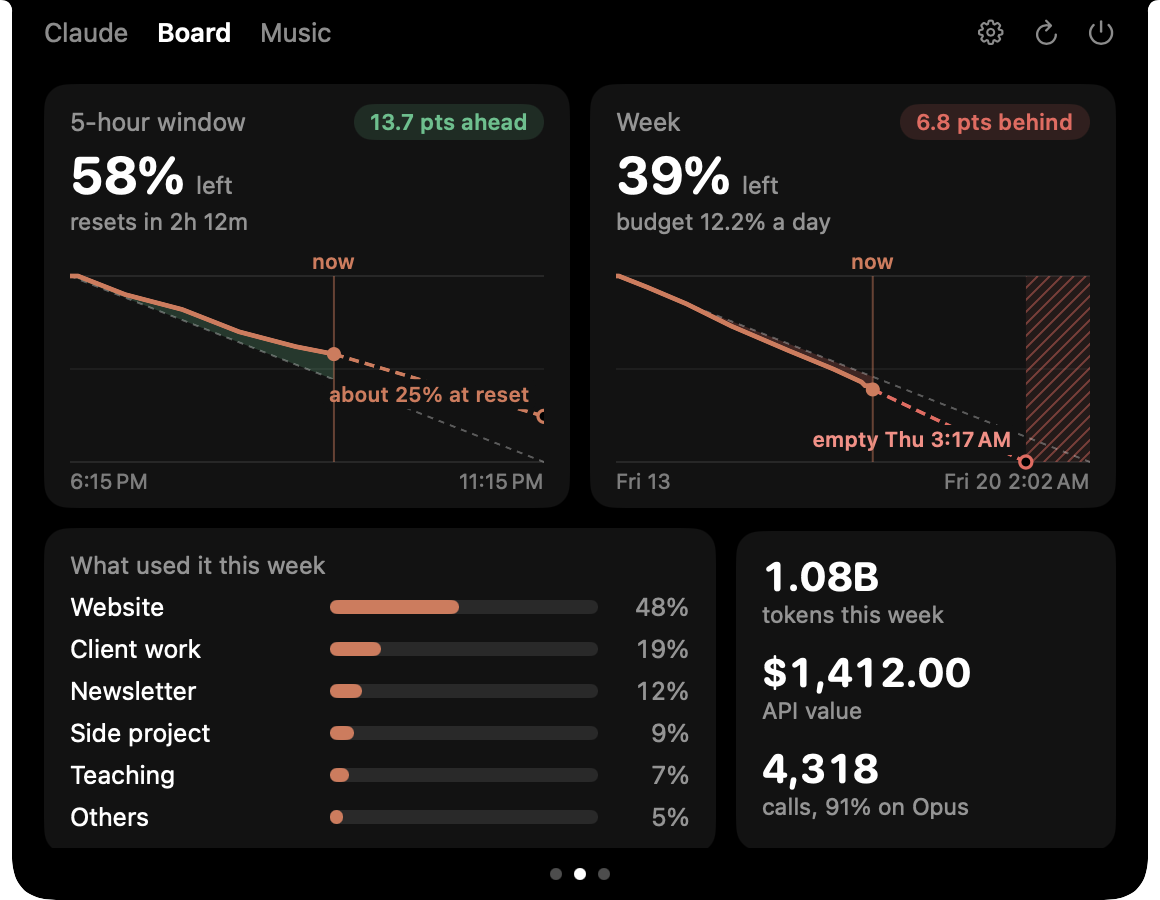
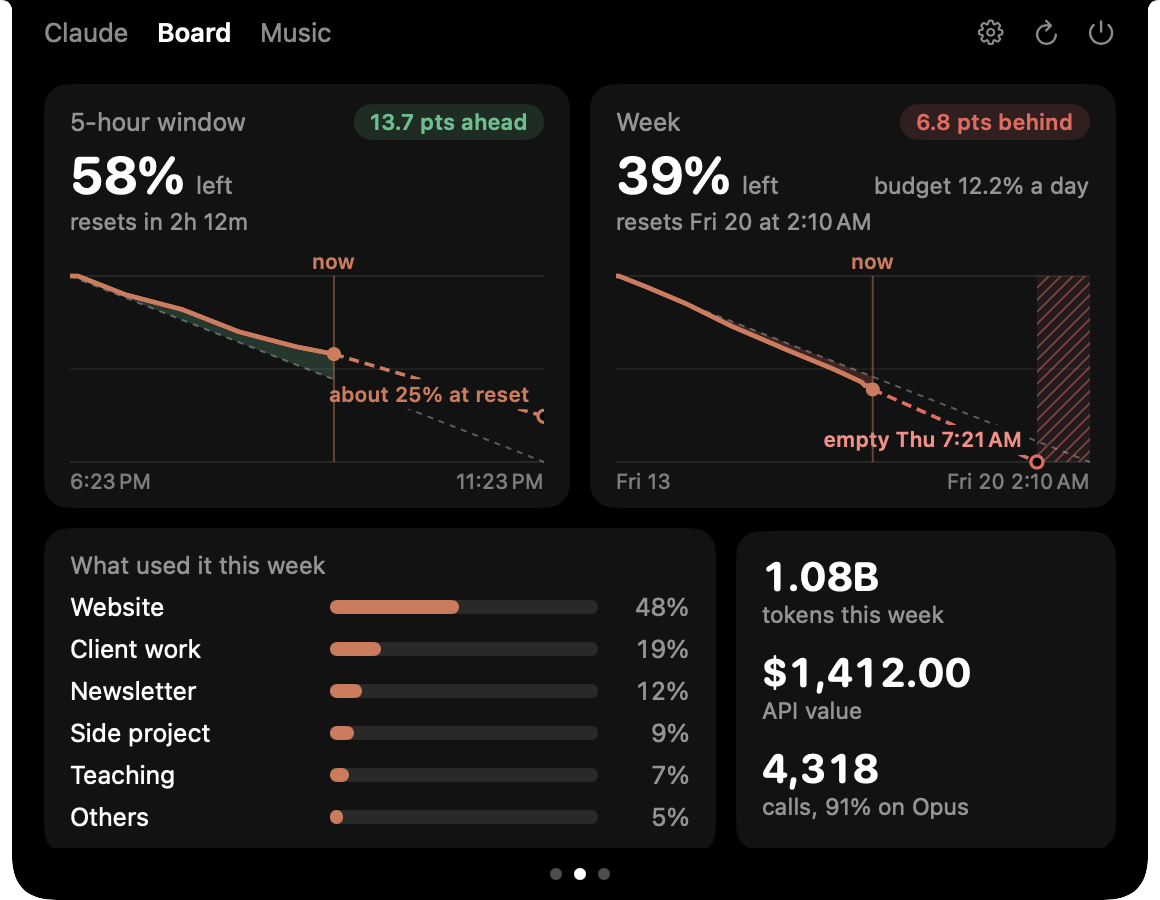
Show the weekly reset date and time on the Board page

diff --git a/Sources/ClaudeFlowmaxxing/BoardPage.swift b/Sources/ClaudeFlowmaxxing/BoardPage.swift
@@ -18,7 +18,8 @@ struct BoardPage: View {
                 ChartCard(kind: .five, title: L.s("board.5h"), forecast: five,
                           subtitle: five.map { L.s("quota.reset", Format.dureeAvant($0.end)) })
                 ChartCard(kind: .seven, title: L.s("board.week"), forecast: week,
-                          subtitle: week.map { L.s("board.budget", Format.pourcent1($0.perDay)) })
+                          subtitle: week.map { L.s("board.resetAt", Format.jourCourt($0.end), Format.heure($0.end)) },
+                          detail: week.map { L.s("board.budget", Format.pourcent1($0.perDay)) })
             }
             .frame(height: 212)
             HStack(spacing: 10) {
@@ -95,6 +96,8 @@ struct ChartCard: View {
     let title: String
     let forecast: Forecast?
     let subtitle: String?
+    /// Information secondaire à droite du pourcentage (budget par jour de la semaine).
+    var detail: String? = nil
     @State private var hover: (date: Date, used: Double, projected: Bool)?
 
     var body: some View {
@@ -109,6 +112,11 @@ struct ChartCard: View {
                     .font(.system(size: 26, weight: .bold, design: .rounded)).monospacedDigit()
                     .foregroundStyle(.white)
                 Text(L.s("board.left")).font(.system(size: 12)).foregroundStyle(Palette.secondary)
+                if let detail {
+                    Spacer(minLength: 6)
+                    Text(detail).font(.system(size: 11.5)).foregroundStyle(Palette.secondary)
+                        .lineLimit(1).minimumScaleFactor(0.8)
+                }
             }
             Text(hoverText ?? subtitle ?? " ")
                 .font(.system(size: 11.5, weight: hover == nil ? .regular : .semibold))

diff --git a/Sources/ClaudeFlowmaxxing/L10n.swift b/Sources/ClaudeFlowmaxxing/L10n.swift
@@ -135,6 +135,7 @@ enum L {
         "board.left": ["en": "left", "fr": "restants", "es": "restante", "de": "übrig"],
         "board.ahead": ["en": "%@ pts ahead", "fr": "%@ pts d'avance", "es": "%@ pts de ventaja", "de": "%@ Pkt. voraus"],
         "board.behind": ["en": "%@ pts behind", "fr": "%@ pts de retard", "es": "%@ pts de retraso", "de": "%@ Pkt. zurück"],
+        "board.resetAt": ["en": "resets %@ at %@", "fr": "remise à zéro %@ à %@", "es": "se reinicia el %@ a las %@", "de": "Reset %@ um %@"],
         "board.budget": ["en": "budget %@ a day", "fr": "budget %@ par jour", "es": "presupuesto %@ al día", "de": "Budget %@ pro Tag"],
         "board.now": ["en": "now", "fr": "maintenant", "es": "ahora", "de": "jetzt"],
         "board.locked": ["en": "Locked", "fr": "Bloqué", "es": "Bloqueado", "de": "Gesperrt"],
